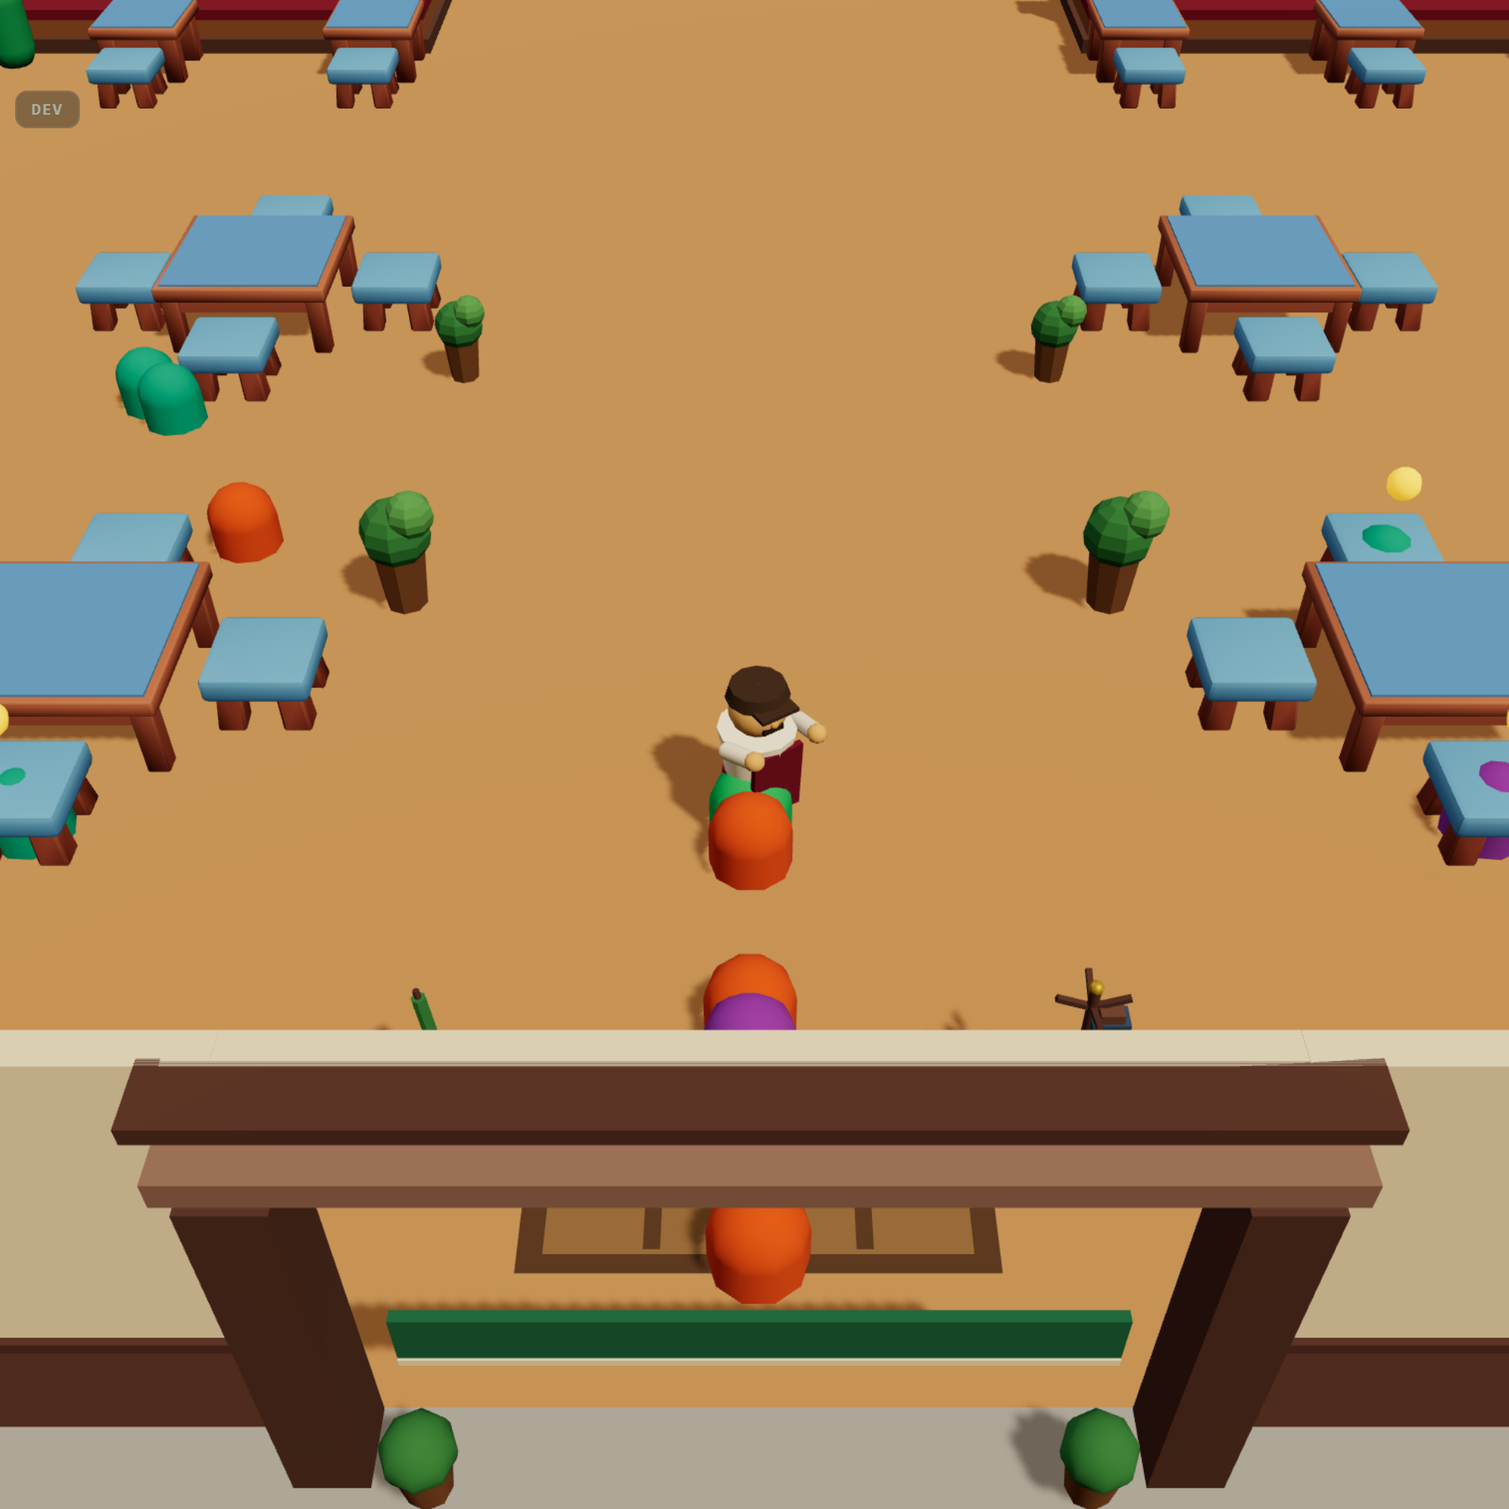
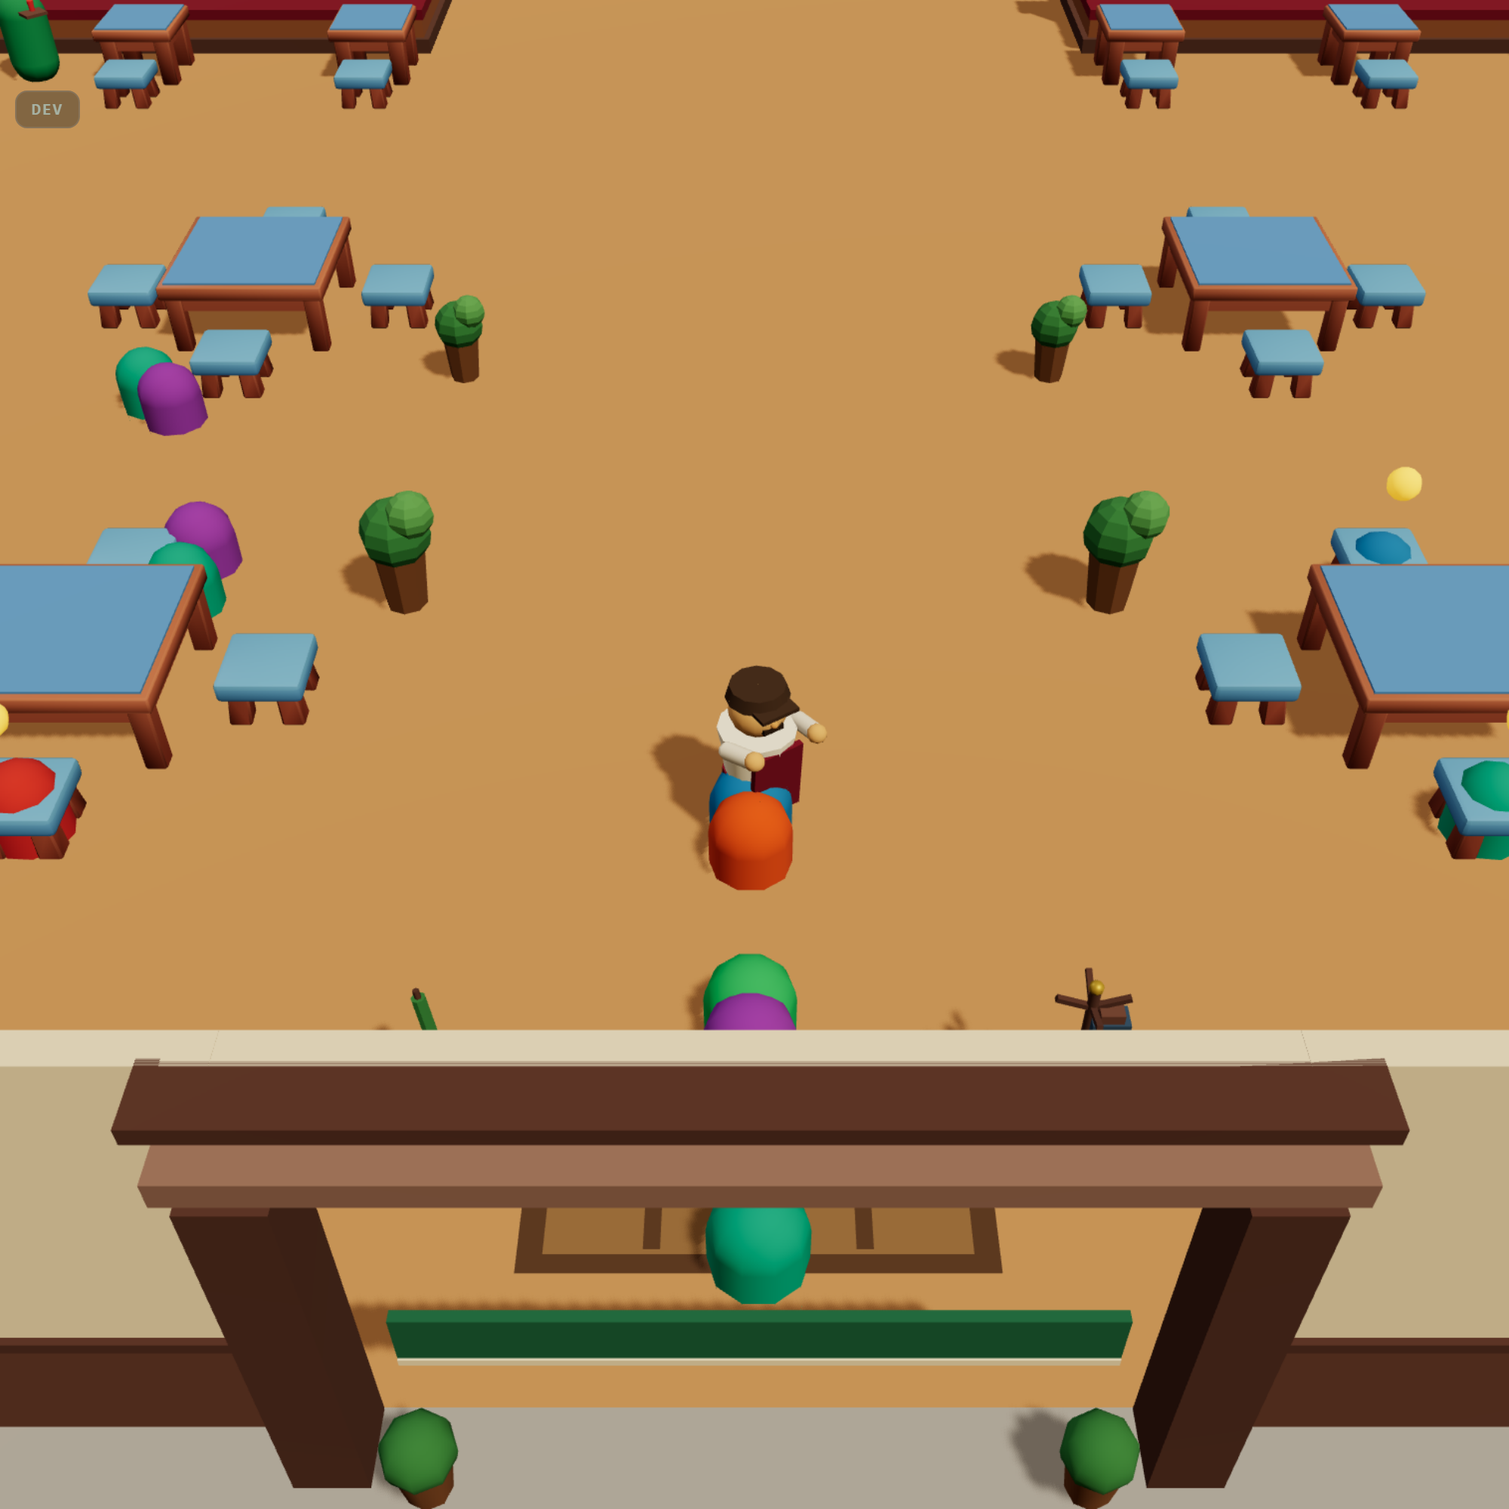
D-075: mobilya olcegi karaktere gore ayarlandi (ikinci geri bildirim turu)
- Tabure 1,11 -> 0,90 (oturak 0,555 -> 0,45, cap 0,83 -> 0,675); greybox yedegi de ayni oranda
  olceklenir (STOOL_REF ile) -> asset ve greybox hatlari ayni silueti verir
- Ikili masa 1,00/1,20 -> 0,90/1,05 · dortlu 1,10/1,75 -> 1,05/1,68
- Banket masasi adadan 1,85 -> 2,00 (bosluk 0,10 -> 0,225), sandalye 2,95 -> 3,02
  (masayla arasi 0,16 korunur). aisleDz 3,50'de BIRAKILDI: 3,65 guney yuzundeki noktayi
  waiter pad'inin dairesine sokuyordu (2,26 < 2,30, layout-b32 bekcisi yakaladi)
- tableHalf 0,875 -> 0,84 · deuceHalf 0,60 -> 0,525
- 'banket birim geometrisi maketle birebir' testi yeniden yazildi: sabit sayilari degil
  SIRAYI ve BOSLUKLARI bekciliyor (ada -> masa -> sandalye -> koridor, her aralik > 0,10)

KOK SEBEP kayda gecti: maketin insani 1,80, oyunun karakteri 1,30 -> maketin mobilyasi 1:1
alininca %38 buyuk kaliyor. Her turda kisilan PLAN olcusu; orani bozan YUKSEKLIK (masa 0,75 =
karakterin %58'i, makette %42). Masa yuksekligine DOKUNULMADI (D-073 kullanici karari) -
cikis yolu kullaniciya soruldu, karar verilmeden olcu DONDURULMAMALI

vitest 281/281 - smoke 28/28 - tsc + eslint + build temiz

diff --git a/src/components/three/tableLook.ts b/src/components/three/tableLook.ts
@@ -16,27 +16,30 @@ import type { TableKind } from '../../config/economy.config';
 // büyük: ön çeyreğin dörtlü ÇAY masası `teaTable` **1,75 × 1,75 @ y 0,75**, şeridin ikili kafe
 // masası `cafeTable2` **1,00 × 1,00 @ y 0,75**. Oyun ikisini de ~0,9'a indirmişti (fark kayboldu).
 // Maket BİTMİŞ HÂLDİR (D-070): en üst kademe maketin ölçüsüdür, alt kademe ondan geriye türer.
-const TEA_TABLE_S: Vec3 = [1.1, 0.75, 1.1]; // table_small (native 1) → 1,10 tabla · DÖRTLÜ L0-L2
-const TEA_TABLE_M: Vec3 = [0.875, 0.75, 0.875]; // table_medium (native 2) → **1,75** · dörtlü L3+
+const TEA_TABLE_S: Vec3 = [1.05, 0.75, 1.05]; // table_small (native 1) → 1,05 tabla · DÖRTLÜ L0-L2
+const TEA_TABLE_M: Vec3 = [0.84, 0.75, 0.84]; // table_medium (native 2) → **1,68** · dörtlü L3+
 
 // İKİLİ MASA — KARE (kullanıcı 2026-09-07): *"banketlerin masaları ideal boyda olsun ama KARE
 // olsun; küçük dememin sebebi dikdörtgen olmasıydı, diğer tek masalar kadar büyük olmasın"*.
 // Önceki hâli `table_medium_long`du (0,99 × 0,70): bistro mantığı doğruydu ama dikdörtgen tabla
 // 1,75'lik dörtlünün yanında hem küçük hem çarpık okundu. İkili artık dörtlüyle AYNI asseti
 // (kare `table_small`) kullanır, yalnız daha küçük kalır — tip farkını tabla ORANI değil BOYU söyler.
-// Kademeler: L0-L2 **1,00** (maketin `cafeTable2`'si birebir) → L3+ **1,20**.
-// Üst sınırı BANKET geometrisi veriyor: adanın görsel yarı-derinliği 1,25 ve masa merkezi ondan
-// 1,85'te; tabla yarısı 0,60'ı geçerse tabla adanın oturağının ÜSTÜNE biner (layout-b32 bekçisi).
-// 1,20 hem o sınırda durur hem oranı tutar (dörtlü 1,75'i dört kişiye verir; ikiye düşen ≈ 1,24).
-const DEUCE_TABLE_S: Vec3 = [1.0, 0.75, 1.0];
-const DEUCE_TABLE_L: Vec3 = [1.2, 0.75, 1.2];
+// Kademeler: L0-L2 **0,90** → L3+ **1,05**. (İlk tur 1,00 → 1,20'ydi; kullanıcı *"banketlerdeki
+// masalar da biraz daha küçülebilir"* dedi ve masa banketten 2,00'ye uzaklaştırıldı, o yüzden
+// üst sınırı veren geometri de gevşedi.) Dörtlü de aynı turda **1,75 → 1,68** oldu: *"karaktere
+// göre masalar ve tabureler çok büyük durdu"*. Sebep ölçüldü — maketin insanı 1,80, oyunun
+// karakteri 1,30; maketin mobilyası 1:1 alınınca karakterin yanında %38 büyük kalıyor.
+// Bu tur PLAN ölçüsünü kısıyor; masa YÜKSEKLİĞİ (0,75) D-073'te kullanıcı kararıyla donmuştu,
+// dokunulmadı — asıl oran sorununun orada olduğu rapora yazıldı.
+const DEUCE_TABLE_S: Vec3 = [0.9, 0.75, 0.9];
+const DEUCE_TABLE_L: Vec3 = [1.05, 0.75, 1.05];
 
 // Örtü (tabla ÜSTÜ) plakası. { y: üst yüzey, hx/hz: yarı-genişlik }. Maket örtüsü tablanın
 // %92,6'sı (1,62 / 1,75) — oran her kademede korunur.
-const TEA_CLOTH_S = { y: 0.75, hx: 0.51, hz: 0.51 };
-const TEA_CLOTH_M = { y: 0.75, hx: 0.81, hz: 0.81 };
-const DEUCE_CLOTH_S = { y: 0.75, hx: 0.463, hz: 0.463 };
-const DEUCE_CLOTH_L = { y: 0.75, hx: 0.556, hz: 0.556 };
+const TEA_CLOTH_S = { y: 0.75, hx: 0.486, hz: 0.486 };
+const TEA_CLOTH_M = { y: 0.75, hx: 0.778, hz: 0.778 };
+const DEUCE_CLOTH_S = { y: 0.75, hx: 0.417, hz: 0.417 };
+const DEUCE_CLOTH_L = { y: 0.75, hx: 0.486, hz: 0.486 };
 
 export interface TableLook {
   key: 'table_small' | 'table_medium' | 'table_medium_long';
@@ -47,7 +50,7 @@ export interface TableLook {
 /**
  * Sv4 (L3) basamağı "masa BÜYÜR": iki tipte de tabla büyür, ikisi de KARE kalır. İkili masa
  * hiçbir seviyede dörtlünün tablasını (1,75 = dört kişilik okuması) almaz — fark boyda durur:
- * 1,00 → 1,20 ↔ 1,10 → 1,75. Böylece L3 iki tipte de gözle görülür TEK bir değişim (D-019).
+ * 0,90 → 1,05 ↔ 1,05 → 1,68. Böylece L3 iki tipte de gözle görülür TEK bir değişim (D-019).
  */
 export function tableLook(kind: TableKind, level: number): TableLook {
   if (kind === 'deuce') {

diff --git a/src/game/layout.ts b/src/game/layout.ts
@@ -216,8 +216,14 @@ export const BANKET = {
   cols: 3,
   /** Ada merkezinden: bank oturağı · masa · karşı sandalye · koridordaki yükseltme noktası. */
   benchDz: 0.74,
-  tableDz: 1.85,
-  chairDz: 2.95,
+  /* Kullanıcı 2026-09-08: *"banketlerdeki masaları banketten azıcık daha uzaklaştır, oradaki
+     tabureleri de ona göre ayarla"*. Masa 1,85 → 2,00 (adanın oturak kenarı 1,25; tabla yarısı
+     0,525 → aradaki boşluk 0,10'dan 0,225'e çıktı); sandalye masayla arasındaki 0,16'yı korumak
+     için 2,95 → 3,02'ye çekildi. Koridordaki yükseltme noktası (3,50) YERİNDE kaldı: 3,65'e
+     çıkarılınca güney yüzündeki nokta `waiter` pad'inin dairesine giriyordu (2,26 < 2,30 —
+     `layout-b32` bekçisi yakaladı). */
+  tableDz: 2.0,
+  chairDz: 3.02,
   aisleDz: 3.5,
 } as const;
 
@@ -574,8 +580,8 @@ export const LAYOUT = {
   //  bağlı: sol duvarda uzun kenar z'de, arka bantta x'te. `servicePlace(areasOpen).half`.)
   // BM adım 2 (D-073): iki mobilya dili, iki footprint. Dörtlü ÇAY masası maketin `teaTable`'ı
   // (1,75 → yarı 0,875); şeridin İKİLİ kafe masası `cafeTable2` (1,00 → yarı 0,50).
-  tableHalf: [0.875, 0.875] as [number, number], // dörtlü (four) — REACH_TABLE bundan türer
-  deuceHalf: [0.6, 0.6] as [number, number], // ikili (deuce) — kare 1,20 (L3+); banket adasının masası
+  tableHalf: [0.84, 0.84] as [number, number], // dörtlü (four) — kare 1,68; REACH_TABLE bundan türer
+  deuceHalf: [0.525, 0.525] as [number, number], // ikili (deuce) — kare 1,05 (L3+); banket adasının masası
   chairHalf: [0.3, 0.3] as [number, number], // tabure (maket yarıçapı 0,27) + oturan müşteri
   // Sandalye ofsetleri (Y2 tek kaynak): Tables.tsx görsel sandalyeyi, store koltuk pozisyonunu
   // (ALL_TABLES.seats) AYNI listeden türetir — görsel sandalye = oturulabilir koltuk.

diff --git a/tests/table-b5a.test.ts b/tests/table-b5a.test.ts
@@ -129,14 +129,15 @@ describe('B5a — MASA TİPİ: dörtlü küme ↔ banket ikilisi', () => {
     expect(tableLook('four', 3).key).toBe('table_medium');
     // İkili masa hiçbir seviyede dörtlünün tablasını (1,75 = dört kişilik okuması) almaz.
     for (const l of [0, 1, 2, 3, 4]) expect(tableLook('deuce', l).key).not.toBe('table_medium');
-    // Kademeler: ikili 1,00 → 1,20 · dörtlü 1,10 → 1,75. İkili her seviyede dörtlüden KÜÇÜK,
+    // Kademeler: ikili 0,90 → 1,05 · dörtlü 1,05 → 1,68. İkili her seviyede dörtlüden KÜÇÜK,
     // ama L3'te kendi L0'ından büyük (basamak gözle görülür).
     const side = (k: 'four' | 'deuce', l: number) => tableLook(k, l).scale[0] * (tableLook(k, l).key === 'table_medium' ? 2 : 1);
-    expect(side('deuce', 0)).toBeCloseTo(1.0, 6);
-    expect(side('deuce', 3)).toBeCloseTo(1.2, 6);
-    expect(side('four', 0)).toBeCloseTo(1.1, 6);
-    expect(side('four', 3)).toBeCloseTo(1.75, 6);
-    for (const l of [0, 3]) expect(side('deuce', l)).toBeLessThan(side('four', l));
+    expect(side('deuce', 0)).toBeCloseTo(0.9, 6);
+    expect(side('deuce', 3)).toBeCloseTo(1.05, 6);
+    expect(side('four', 0)).toBeCloseTo(1.05, 6);
+    expect(side('four', 3)).toBeCloseTo(1.68, 6);
+    expect(side('deuce', 3)).toBeLessThan(side('four', 3));
+    expect(side('deuce', 0)).toBeLessThan(side('four', 0) + 1e-9); // L0'da ikisi de küçük tabla
     expect(side('deuce', 3)).toBeGreaterThan(side('deuce', 0));
     // İkilinin tablası BANKET adasının oturağının üstüne binmez (collision yarısı = tabla yarısı).
     expect(LAYOUT.deuceHalf[0]).toBeCloseTo(side('deuce', 3) / 2, 6);

diff --git a/src/components/three/Tables.tsx b/src/components/three/Tables.tsx
@@ -30,11 +30,17 @@ const KAY = '/assets/models/kaykit-furniture-bits/';
 // **0,795**'e çıkmıştı → oturakla tabla arası 0,50, yani tabure masanın yarısı kadar alçak.
 // Referans maketin `stool()`'u: oturak üstü **0,555**, çapı 0,54. Ölçek buradan türer:
 // 0,555 / 0,50 = **1,11** → tabure 0,83 × 0,555; tabla üstüyle arası 0,24 (gerçek tabure oranı).
-const STOOL_S = 1.11; // chair_stool / chair_stool_wood — maketin oturak yüksekliğine (0,555) kilitli
+// 1,11 denendi ve kullanıcı *"bu sefer de tabureler aşırı büyük oldu"* dedi: maketin oranı
+// maketin 1,80'lik insanına göreydi, oyunun karakteri 1,30. Ölçek karakterin boyuna göre
+// yeniden seçildi: **0,90** → oturak üstü 0,45 (karakterin %35'i), çap 0,675, tabla üstüyle
+// (0,795) arası 0,345. Referans 1,11 sabit kalıyor çünkü greybox yedeği maketin ölçüleriyle
+// yazılı; o grup `STOOL_S / STOOL_REF` ile ölçeklenerek asset hattıyla aynı boya gelir.
+const STOOL_REF = 1.11; // greybox yedeğinin yazıldığı ölçek (maketin `stool()`'u birebir)
+const STOOL_S = 0.9;
 // Tabure (gerçek kıraathane formu): silindir gövde + kırmızı minder. Koltuk kutusu emekli.
 function Stool({ x, z }: { x: number; z: number }) {
   return (
-    <group position={[x, 0, z]}>
+    <group position={[x, 0, z]} scale={STOOL_S / STOOL_REF}>
       {/* Maketin `stool()`'u birebir: taban diski · ince ayak · geniş oturak · minder.
           Oturak üstü 0,555 (tabla üstü 0,795 ile arası 0,24), çap 0,54. */}
       <mesh castShadow position={[0, 0.03, 0]}>

diff --git a/tests/layout-b32.test.ts b/tests/layout-b32.test.ts
@@ -83,10 +83,19 @@ describe('B3-2 — banket adaları maket v13 birim geometrisini taşır', () => 
     expect(STRIP.length).toBe(12);
   });
 
-  it('BİRİM GEOMETRİSİ maketle birebir: bank 0,74 · masa 1,85 · sandalye 2,95', () => {
+  it('BİRİM GEOMETRİSİ: bank 0,74 (maket) · masa 2,00 · sandalye 3,02 — sıra ve boşluklar korunur', () => {
+    // Masa ve sandalye maketin 1,85 / 2,95'inden AÇILDI (kullanıcı 2026-09-08: *"banketlerdeki
+    // masaları banketten azıcık daha uzaklaştır, oradaki tabureleri de ona göre ayarla"*).
+    // Bank maketin yerinde: adanın kendi oturağı, masa ondan uzaklaşınca yerinden oynamaz.
     expect(BANKET.benchDz).toBeCloseTo(0.74, 6);
-    expect(BANKET.tableDz).toBeCloseTo(1.85, 6);
-    expect(BANKET.chairDz).toBeCloseTo(2.95, 6);
+    expect(BANKET.tableDz).toBeCloseTo(2.0, 6);
+    expect(BANKET.chairDz).toBeCloseTo(3.02, 6);
+    // Sıra bozulmaz ve iki boşluk da POZİTİF kalır: ada oturağı → masa → sandalye.
+    expect(BANKET.benchDz).toBeLessThan(BANKET.tableDz);
+    expect(BANKET.tableDz).toBeLessThan(BANKET.chairDz);
+    expect(BANKET.chairDz).toBeLessThan(BANKET.aisleDz);
+    expect(BANKET.tableDz - LAYOUT.deuceHalf[1] - BANKET.depth / 2).toBeGreaterThan(0.1); // ada ↔ tabla
+    expect(BANKET.chairDz - LAYOUT.chairHalf[1] - (BANKET.tableDz + LAYOUT.deuceHalf[1])).toBeGreaterThan(0.1); // tabla ↔ sandalye
     for (const i of STRIP) {
       const t = LAYOUT.tables[i];
       const face = t.table[2] > BANKET.z ? 1 : -1;

diff --git a/memory-bank/decisions.md b/memory-bank/decisions.md
@@ -1854,3 +1854,51 @@ olması normaldir, ERİŞİLEMEZ olması değil.
 
 **Testler:** 281/281 yeşil (3'ü yeniden yazıldı, biri "ikili her seviyede KARE" iddiasıyla
 güçlendirildi). tsc + eslint + build temiz, smoke 28/28.
+
+---
+
+## D-075 — MOBİLYA ÖLÇEĞİ KARAKTERE GÖRE AYARLANDI (2026-09-08 gece)
+
+**Kullanıcı (D-074'ün kareleri üzerine):** *"bu sefer de tabureler aşırı büyük oldu biraz daha
+ufaltabilirsin ve banketlerdeki masalar da biraz daha küçülebilir. ek olarak banketlerdeki
+masaları banketten azıcık daha uzaklaştır, oradaki tabureleri de ona göre ayarla. hatta normal
+masalar da belki emin olmamakla birlikte çok ama çok az ufalabilir çünkü **karaktere göre masalar
+ve tabureler çok büyük durdu**."*
+
+### KÖK SEBEP — maketin insanı 1,80, oyunun karakteri 1,30
+D-070 "maket bitmiş hâldir, ölçüler ondan alınır" dedi ve doğruydu; ama maketin mobilyası
+**maketin insanına** göre tasarlanmış. Oyunun karakteri 1,30 (eski karar) — yani maketin
+mobilyası 1:1 alındığında karakterin yanında **%38 büyük** kalıyor. D-073 ve D-074'ün her turda
+"biraz daha küçült" ile bitmesinin sebebi bu: kısılan hep PLAN ölçüsü, oysa oranı bozan
+**yükseklik**.
+
+| | maket | oyun (bugün) | maketin oranı 1,30'luk karaktere uygulansaydı |
+|---|---|---|---|
+| insan / karakter | 1,80 | **1,30** | — |
+| masa yüksekliği | 0,75 (%42) | **0,75 (%58)** | 0,54 |
+| tabla üstü | 0,795 | 0,795 (%61) | 0,57 |
+| tabure oturağı | 0,555 (%31) | 0,45 (%35) | 0,40 |
+
+### BU TURDA YAPILAN (yalnız PLAN ölçüsü)
+| | D-074 | D-075 |
+|---|---|---|
+| tabure ölçeği | 1,11 (oturak 0,555 · çap 0,83) | **0,90** (oturak 0,45 · çap 0,675) |
+| ikili masa | 1,00 → 1,20 | **0,90 → 1,05** |
+| dörtlü masa | 1,10 → 1,75 | **1,05 → 1,68** |
+| banket: masa ↔ ada | 1,85 (boşluk 0,10) | **2,00** (boşluk 0,225) |
+| banket: sandalye | 2,95 | **3,02** (masayla arası 0,16 korunur) |
+
+`tableHalf` 0,875 → 0,84 · `deuceHalf` 0,60 → 0,525. Koridordaki yükseltme noktası (`aisleDz`
+3,50) **yerinde bırakıldı**: 3,65'e çıkarılınca güney yüzündeki nokta `waiter` pad'inin dairesine
+giriyordu (2,26 < 2,30) — `layout-b32` bekçisi yakaladı.
+
+### AÇIK KALAN — kullanıcıya soruldu
+**Masa YÜKSEKLİĞİ 0,75'e dokunulmadı.** D-073'te kullanıcı kararıyla maketten alınmıştı ve ölçü
+katmanının dondurulacak listesinde. Oranı asıl bozan o; iki çıkış var ve ikisi de kullanıcının:
+**(a)** masa yüksekliği 0,75 → ~0,60 (mobilya karaktere uyar, maketten sapılır),
+**(b)** karakter 1,30 → ~1,75 (maket aynen kalır, karakter büyür — koltuk/pad/kamera mesafeleri
+yeniden ölçülür). Karar verilmeden ölçü DONDURULMAMALI.
+
+**Testler:** 281/281 yeşil. "banket birim geometrisi maketle birebir" testi yeniden yazıldı:
+artık sabit sayıları değil **sırayı ve boşlukları** bekçiliyor (ada → masa → sandalye → koridor,
+her aralık > 0,10). tsc + eslint + build temiz, smoke 28/28.

diff --git a/memory-bank/activeContext.md b/memory-bank/activeContext.md
@@ -59,7 +59,18 @@ DEV kolu: `window.__devCam({ fov, distMul })` · kareler `node tools/shot-fov.mj
 - Önerim: **50 kalsın** — maketin 34'ü bir gözlem aracının tercihi; D-072'nin kuralı ölçüyü
   DONDURMAK, ölçülmemiş bir kazanç için değiştirmek değil.
 
-### Kullanıcı geri bildirimi ✅ (D-074 — aynı gece uygulandı)
+### >>> KARAR 3 (yeni, D-075) — MOBİLYA / KARAKTER ORANI <<<
+Kullanıcı: *"karaktere göre masalar ve tabureler çok büyük durdu"*. İki tur küçültme yapıldı ama
+**kök sebep ölçüldü ve başka yerde:** maketin insanı **1,80**, oyunun karakteri **1,30**. Maketin
+mobilyası 1:1 alınınca karakterin yanında %38 büyük kalıyor. Her turda kısılan PLAN ölçüsü; oranı
+bozan ise **YÜKSEKLİK** — masa 0,75 (karakterin %58'i; makette %42), tabla üstü 0,795 (%61).
+**Masa yüksekliğine DOKUNULMADI** (D-073 kullanıcı kararı, dondurulacak listede). Çıkış iki tane:
+- **(a)** masa yüksekliği 0,75 → ~0,60 · tabure oturağı ~0,40 → mobilya karaktere uyar, maketten sapılır.
+- **(b)** karakter 1,30 → ~1,75 → maket aynen kalır, karakter büyür; koltuk ofsetleri, pad
+  yarıçapları, kamera mesafesi ve nav yarıçapları yeniden ölçülür.
+**Bu karar verilmeden ölçü DONDURULMAMALI** — yoksa donan liste yanlış oranı dondurur.
+
+### Kullanıcı geri bildirimi ✅ (D-074 + D-075 — aynı gece uygulandı)
 *"banketlerin masaları küçük… tabureler orantı olarak çok küçük… mutfak eşyaları mutfak dışında…
 banket masaları ideal boyda ama KARE olsun"*
 1. **İkili masa kare:** bistro (0,99 × 0,70) elendi → 1,00 (L0-L2) / **1,20** (L3+). Üst sınır
@@ -71,6 +82,9 @@ banket masaları ideal boyda ama KARE olsun"*
    çaycı hattı −11,3. Erişim sabit (0,85 br). `WAITER_STATION` da aynı hizada.
 4. **Değişmez ayrıldı:** aktörün bastığı noktalar alanın İÇİNDE · obje gövdeleri alana DEĞER
    ve alanın en yakın noktasından `serving.pickupRadius` içinde kalır.
+5. **İkinci tur (D-075):** tabure 1,11 → **0,90** (aşırı büyük olmuştu) · ikili masa 0,90/1,05 ·
+   dörtlü 1,05/**1,68** · banket masası adadan **2,00** (boşluk 0,225), sandalye **3,02**.
+   Koridor noktası 3,50'de bırakıldı (3,65 `waiter` pad dairesine giriyordu — bekçi yakaladı).
 **281/281 · smoke 28/28 · tsc + eslint + build temiz.** Kareler yenilendi (`bmm-*`).
 
 ### BM adım 3 ✅ (arka bant + odalar)

diff --git a/memory-bank/progress.md b/memory-bank/progress.md
@@ -1759,7 +1759,15 @@ tek yönlü sıra. Ölçü hedefi kullanıcı kararıyla **A**: kat 34 × 34, du
   - **Değişmez yeniden yazıldı:** "servis kümesi alanın içinde" iki rolü karıştırıyordu →
     aktörün bastığı noktalar alanın İÇİNDE · obje gövdeleri alana DEĞER + `pickupRadius` içinde.
   - **vitest 281/281 · smoke 28/28 · tsc + eslint + build temiz.**
-- ⏳ İki karar (bandın açılması · fov) onaylanınca **DONDURMA + maket arşiv damgası**, sonra
+- ✅ **Mobilya ölçeği (D-075, ikinci geri bildirim turu):** tabure 1,11 → **0,90** · ikili masa
+  1,00/1,20 → **0,90/1,05** · dörtlü 1,10/1,75 → **1,05/1,68** · banket masası adadan 1,85 →
+  **2,00** (boşluk 0,10 → 0,225), sandalye 2,95 → **3,02**. Koridor noktası (3,50) yerinde
+  bırakıldı — 3,65 `waiter` pad'inin dairesine giriyordu (bekçi yakaladı).
+  **KÖK SEBEP kayda geçti:** maketin insanı 1,80, oyunun karakteri 1,30 → maketin mobilyası 1:1
+  alınınca %38 büyük kalıyor. Her turda kısılan PLAN ölçüsü, oranı bozan ise **YÜKSEKLİK** (0,75).
+  **Masa yüksekliği bilerek değiştirilmedi** (D-073 kullanıcı kararı) — çıkış yolu kullanıcıya
+  soruldu: (a) masa 0,60'a insin (maketten sapılır) · (b) karakter ~1,75'e çıksın (maket kalır).
+- ⏳ ÜÇ karar (bandın açılması · fov · mobilya-karakter oranı) onaylanınca **DONDURMA + maket arşiv damgası**, sonra
   `simulate.ts` TEK KEZ yeniden ölçülür.
 - **Rapor:** `docs/bm-adim3-4-bant-kamera.html` →
   https://claude.ai/code/artifact/e49330bc-c918-41ec-a1b4-5c879cae146c
